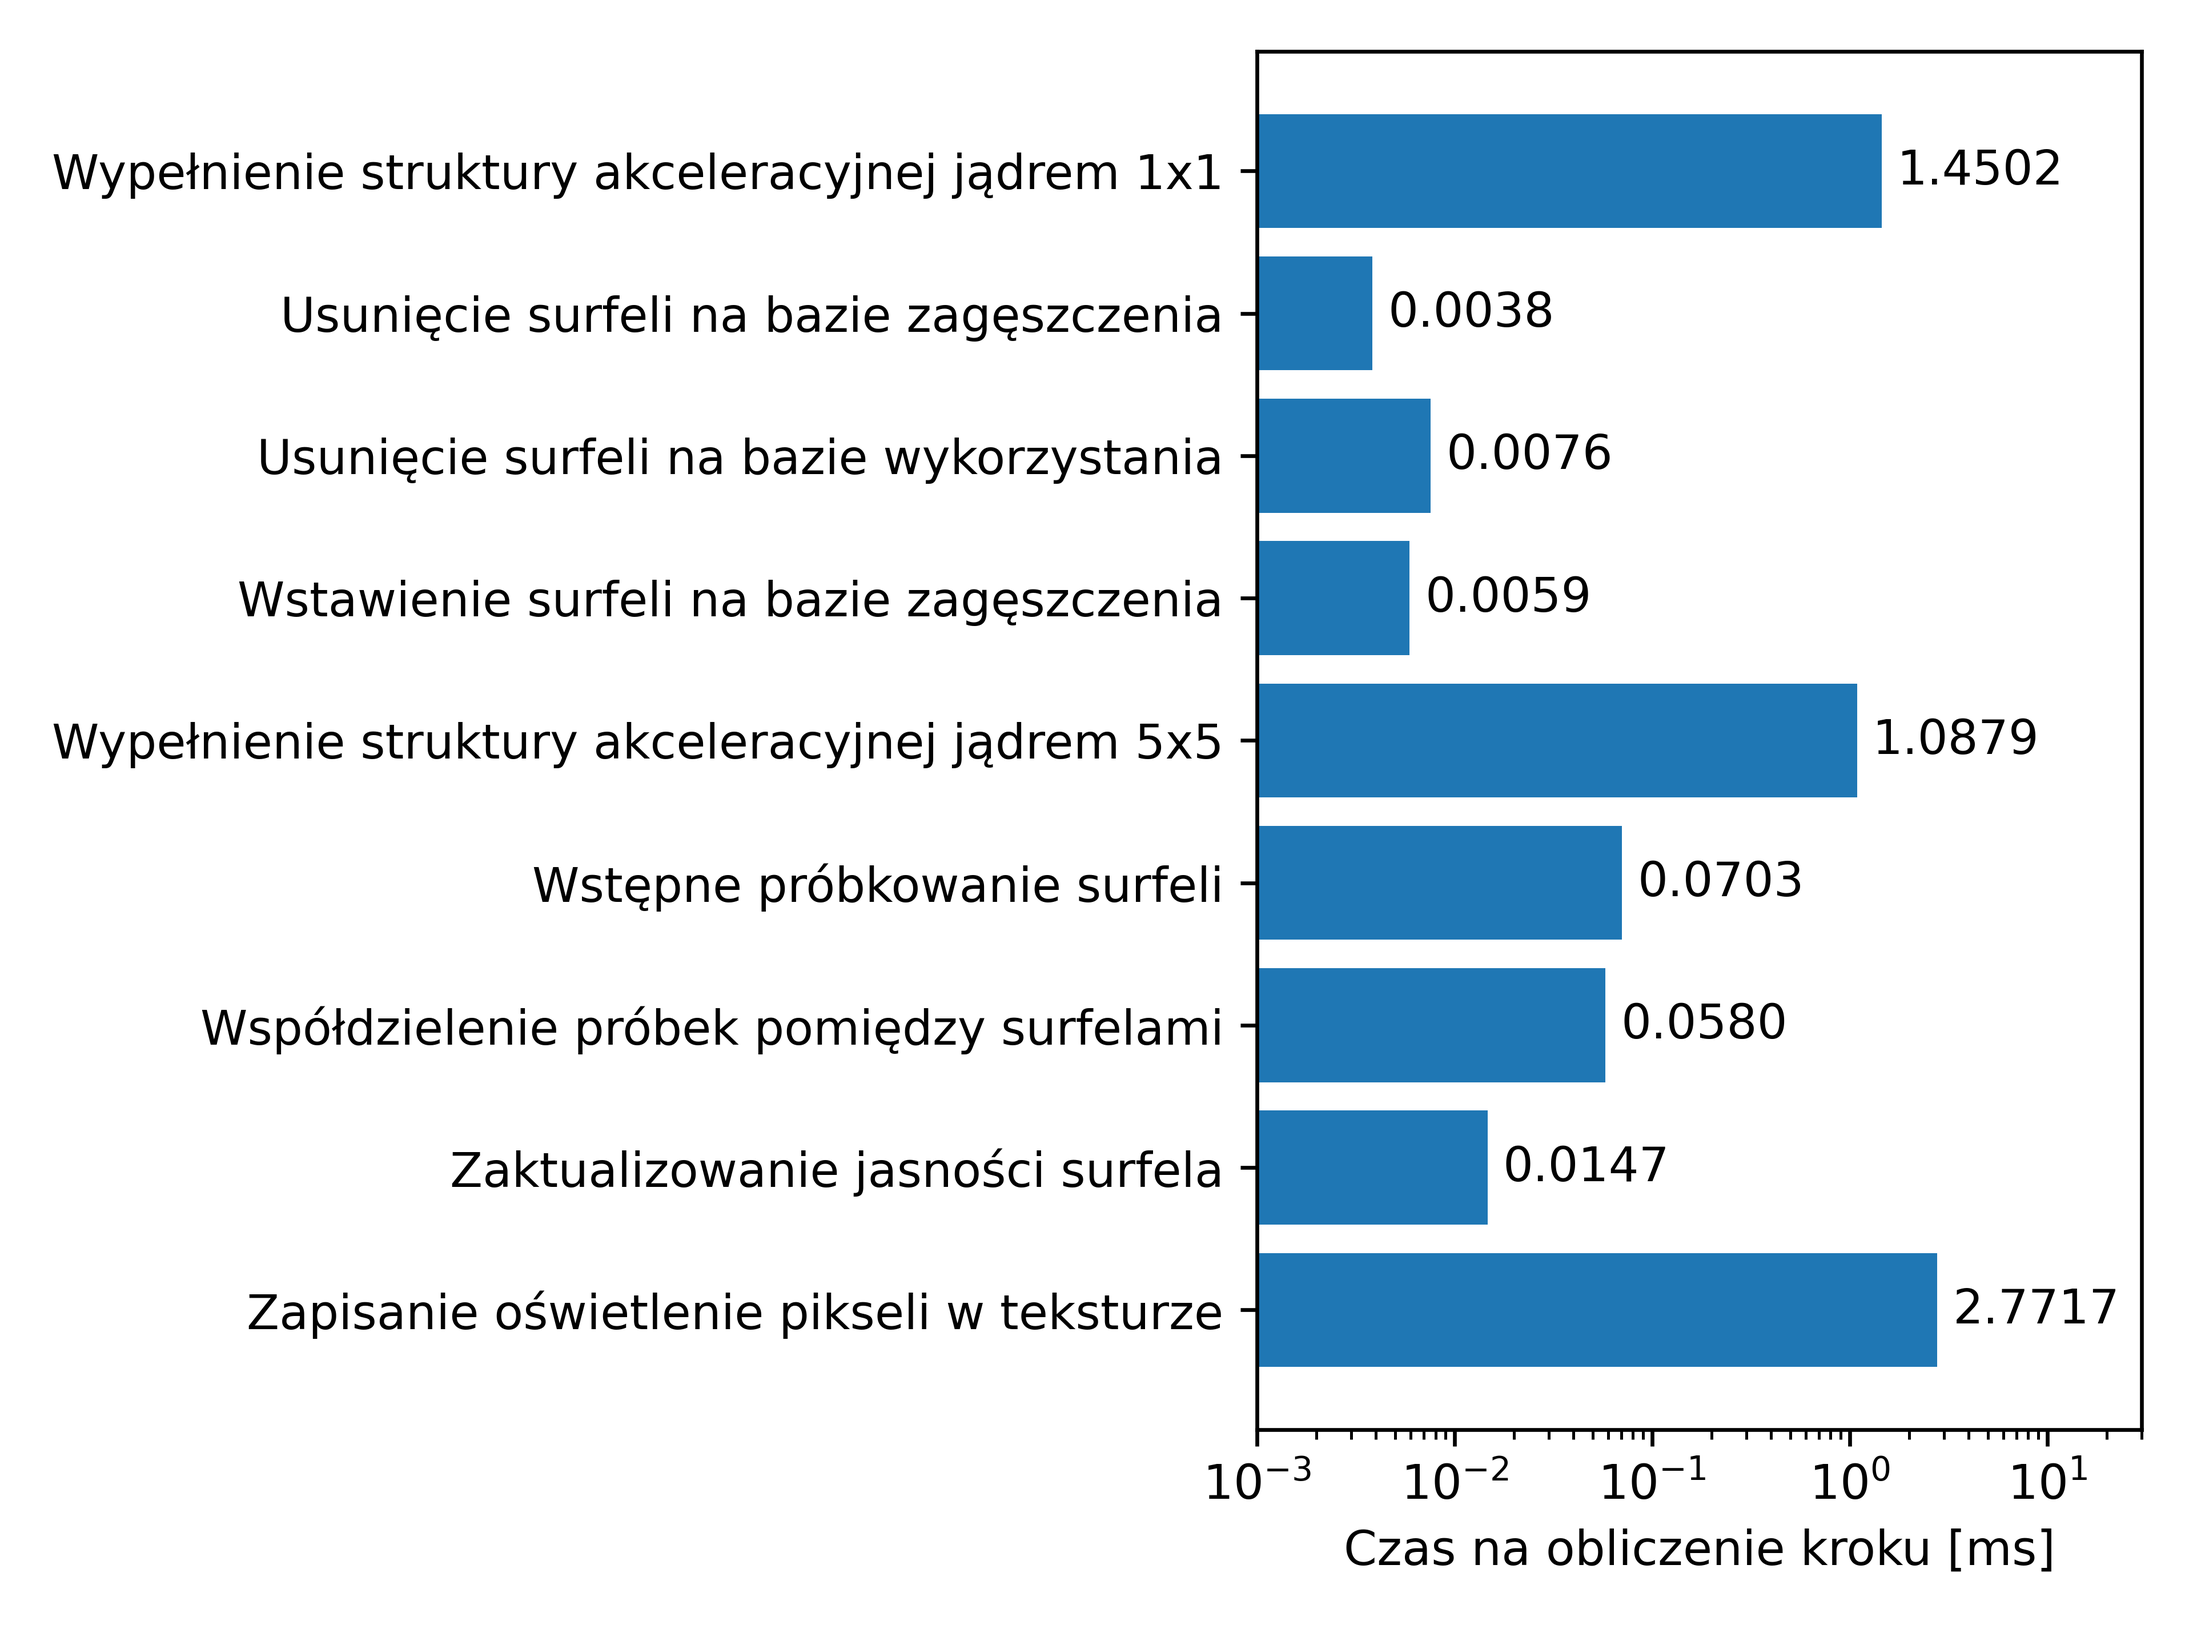
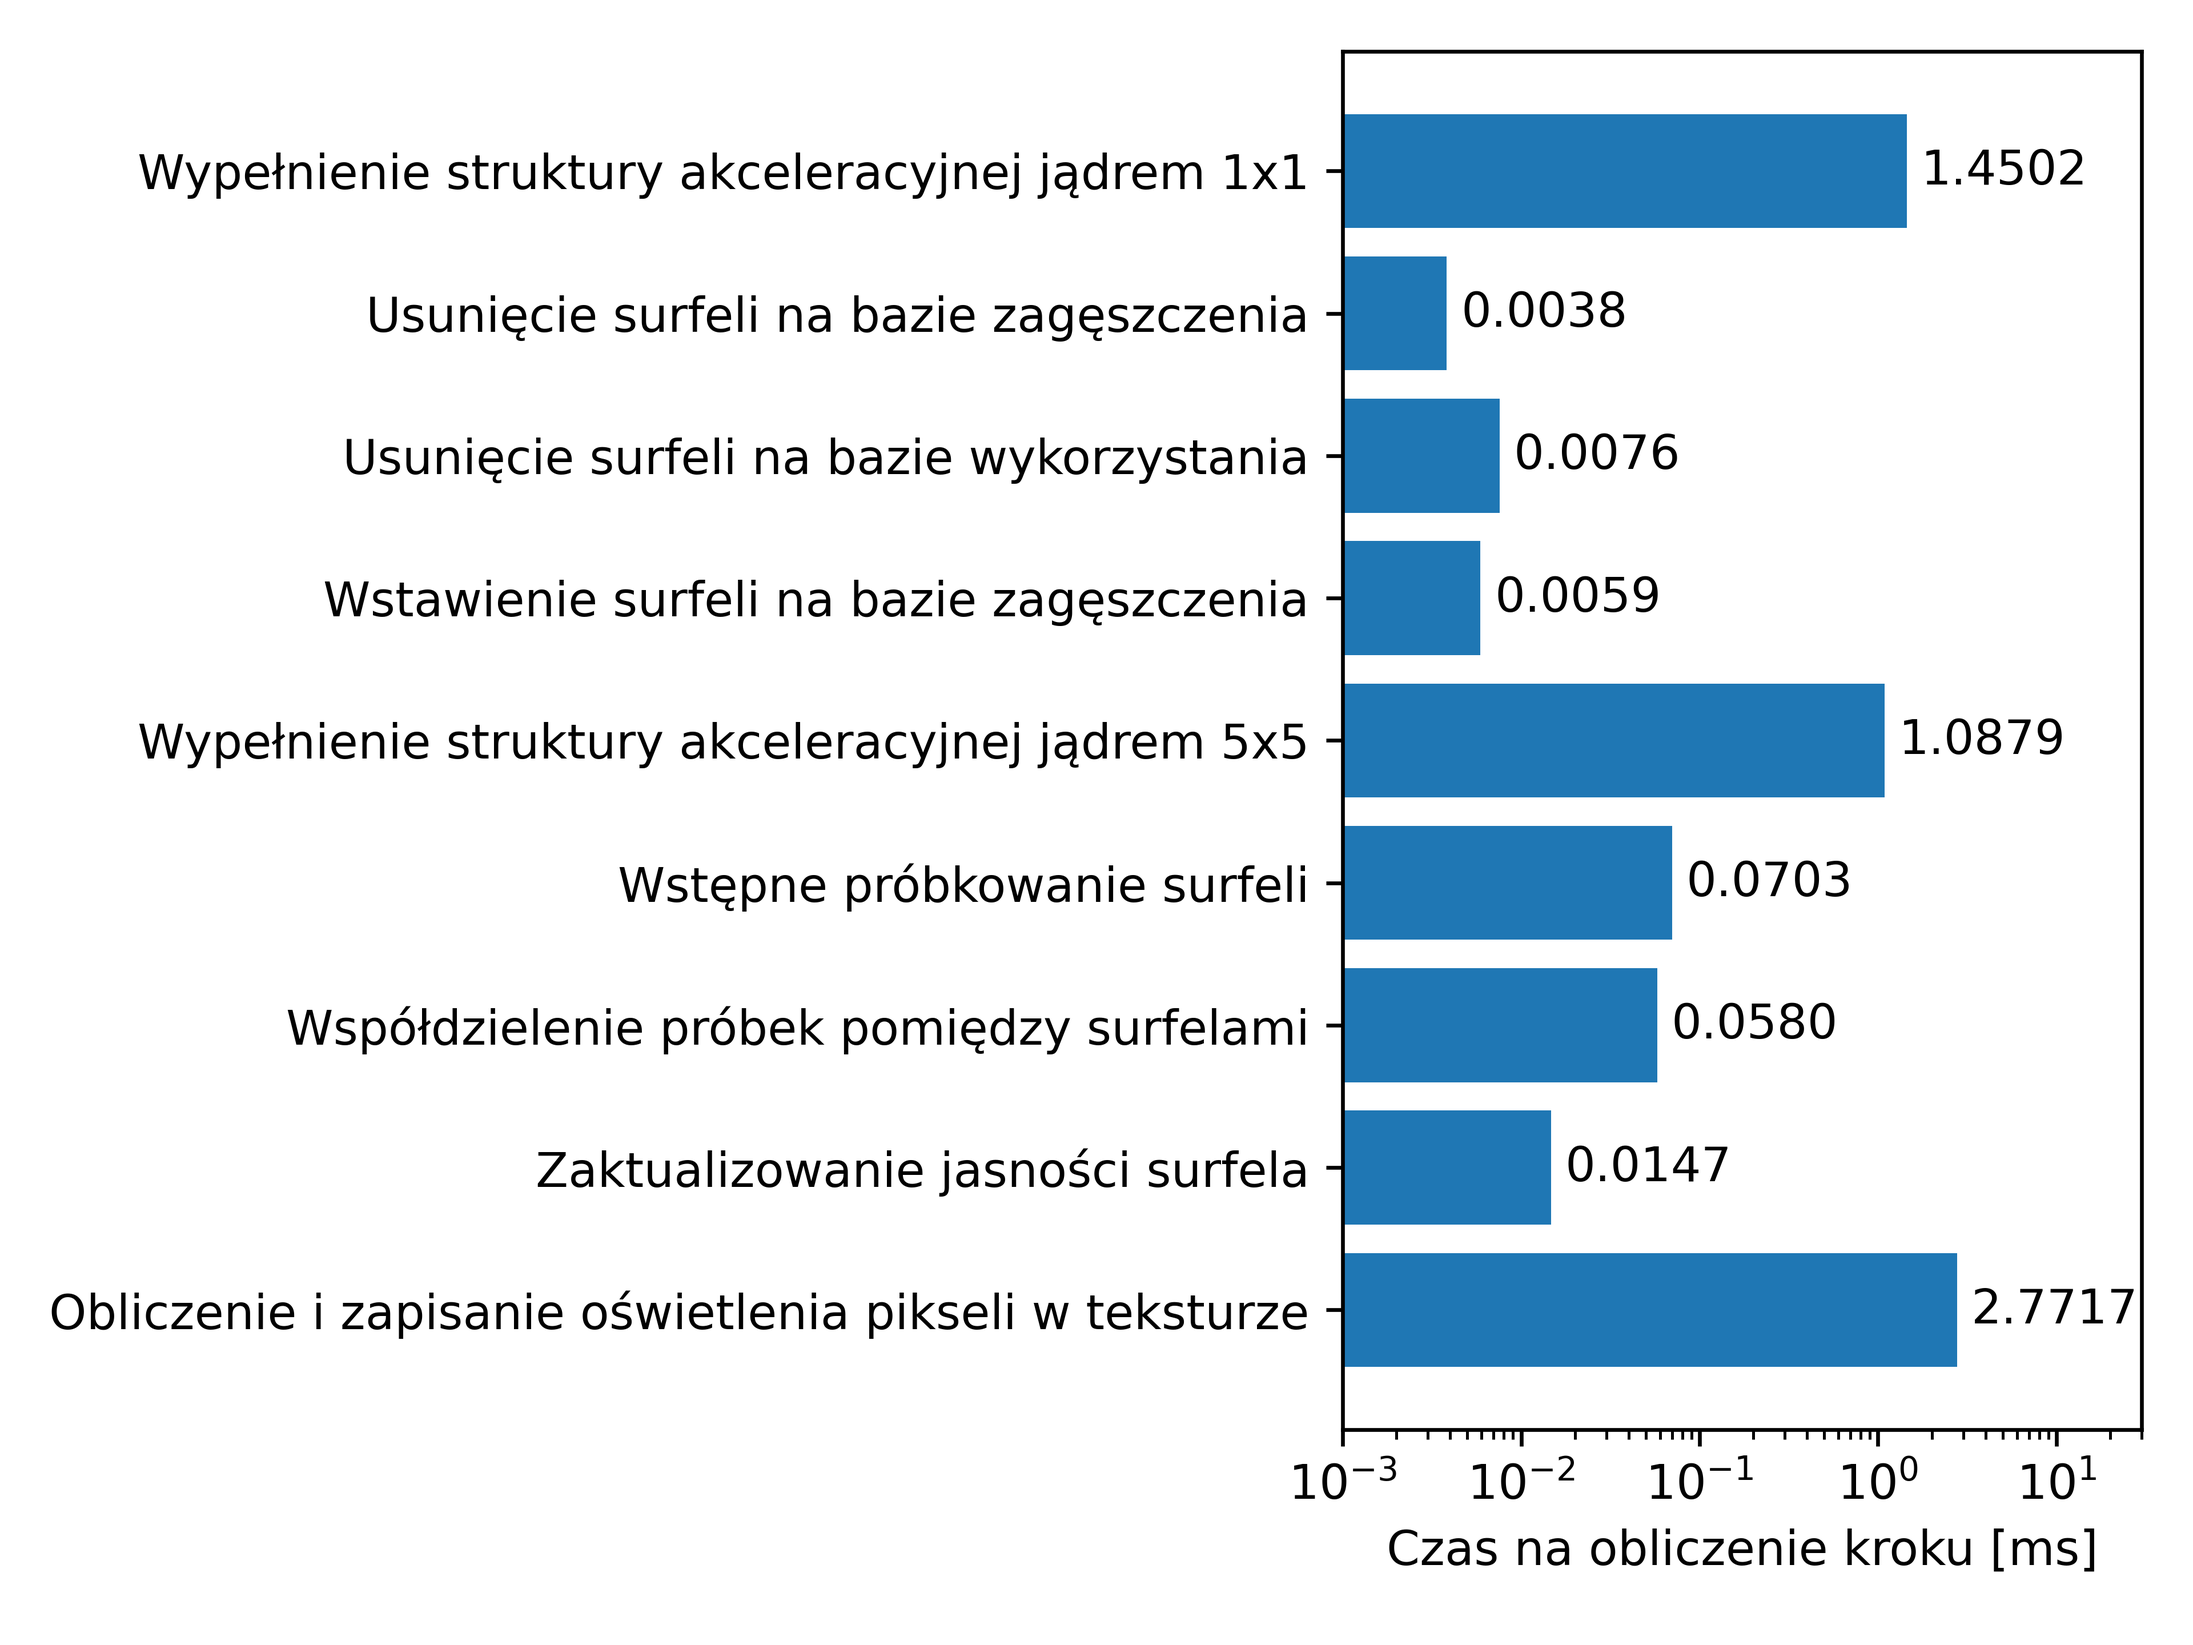
last fixes to plots

diff --git a/testing/performance/stage/main.py b/testing/performance/stage/main.py
@@ -15,7 +15,7 @@ STAGES = [
     "Wstępne próbkowanie surfeli",
     "Współdzielenie próbek pomiędzy surfelami",
     "Zaktualizowanie jasności surfela",
-    "Zapisanie oświetlenie pikseli w teksturze",
+    "Obliczenie i zapisanie oświetlenia pikseli w teksturze",
 ]
 
 for name, input_file in zip(NAMES, INPUT_FILES):
@@ -30,7 +30,7 @@ for name, input_file in zip(NAMES, INPUT_FILES):
     plt.xlim((0.001, 30))
     plt.xscale("log")
     plt.xlabel("Czas na obliczenie kroku [ms]")
-    #plt.title(name)
+    # plt.title(name)
     plt.tight_layout()
     plt.savefig(
         f"testing/performance/stage/imgs/{input_file}.png", dpi=600, transparent=True
